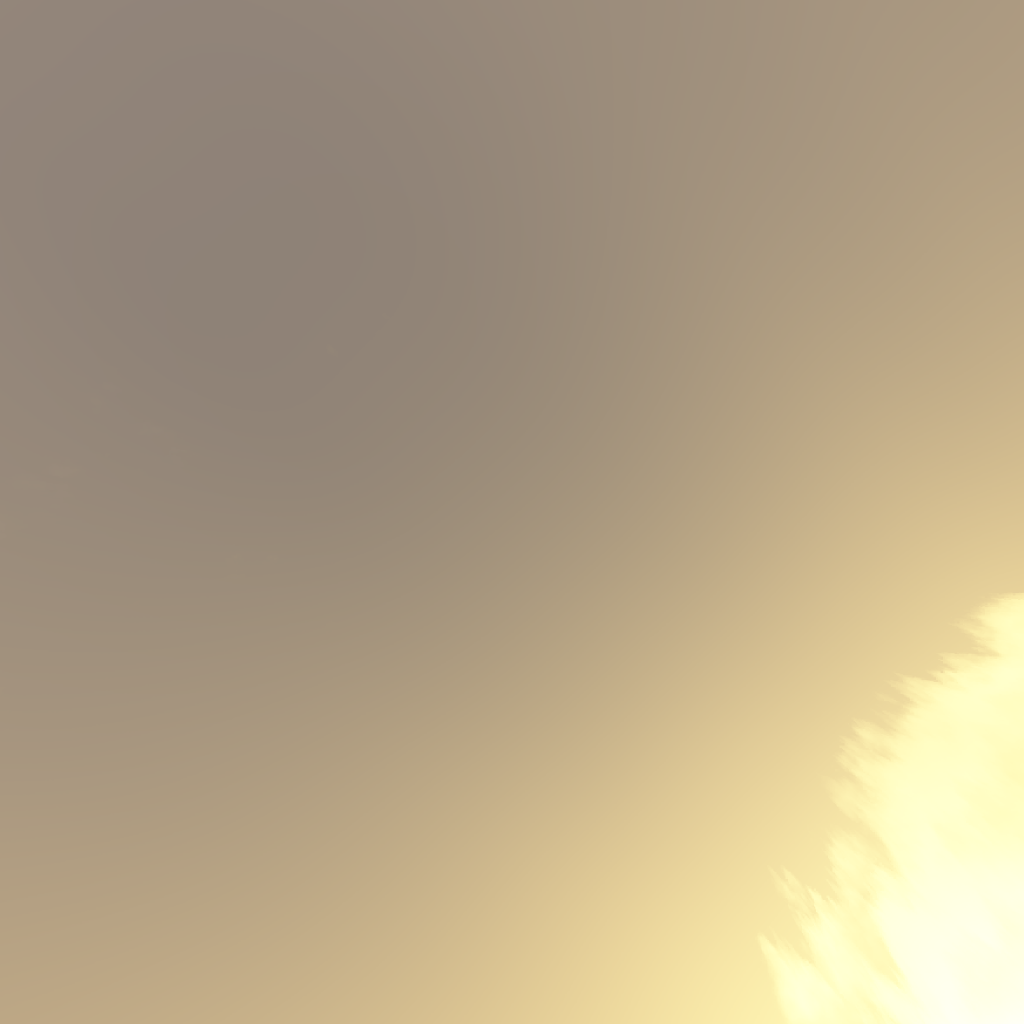
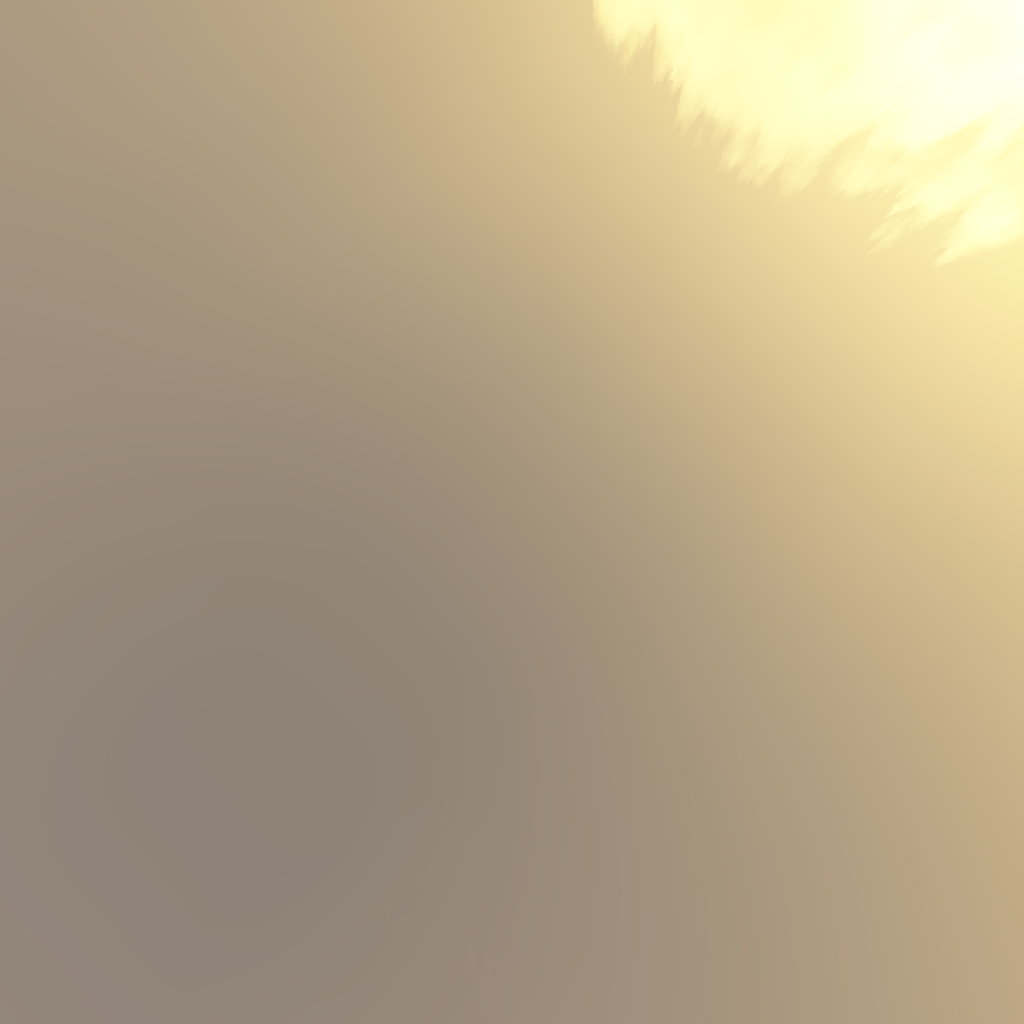
water step 4.

diff --git a/app/src/main/java/net/seabears/game/Main.java b/app/src/main/java/net/seabears/game/Main.java
@@ -142,8 +142,8 @@ public class Main {
      */
     final FrameBuffer reflection = new FrameBuffer(WATER_REFLECTION_WIDTH, WATER_REFLECTION_HEIGHT, display.getWidth(), display.getHeight(), true);
     final FrameBuffer refraction = new FrameBuffer(WATER_REFRACTION_WIDTH, WATER_REFRACTION_HEIGHT, display.getWidth(), display.getHeight(), false);
-    final WaterFrameBuffers waterFbo = new WaterFrameBuffers(reflection, refraction);
-    final WaterRenderer waterRenderer = new WaterRenderer(loader, new WaterShader(), projMatrix.toMatrix());
+    final WaterFrameBuffers waterFbs = new WaterFrameBuffers(reflection, refraction);
+    final WaterRenderer waterRenderer = new WaterRenderer(loader, new WaterShader(), projMatrix.toMatrix(), waterFbs);
 
     /*
      * models
@@ -206,9 +206,9 @@ public class Main {
     List<GuiTexture> guis = new ArrayList<>();
     guis.add(new GuiTexture(loader.loadTexture("winnie"), new Vector2f(0.7f, 0.7f),
             new Vector2f(0.1f, display.getWidth() / (float) display.getHeight() * 0.1f)));
-    guis.add(new GuiTexture(waterFbo.getReflectionTexture(), new Vector2f(-0.75f, 0.75f), new Vector2f(0.25f, 0.25f)));
-    guis.add(new GuiTexture(waterFbo.getRefractionTexture(), new Vector2f(-0.75f, 0.25f), new Vector2f(0.25f, 0.25f)));
-    guis.add(new GuiTexture(waterFbo.getRefractionDepthTexture(), new Vector2f(-0.75f, -0.25f), new Vector2f(0.25f, 0.25f)));
+    guis.add(new GuiTexture(waterFbs.getReflectionTexture(), new Vector2f(-0.75f, 0.75f), new Vector2f(0.25f, 0.25f)));
+    guis.add(new GuiTexture(waterFbs.getRefractionTexture(), new Vector2f(-0.75f, 0.25f), new Vector2f(0.25f, 0.25f)));
+    guis.add(new GuiTexture(waterFbs.getRefractionDepthTexture(), new Vector2f(-0.75f, -0.25f), new Vector2f(0.25f, 0.25f)));
 
     final MousePicker mousePicker = new MousePicker(MouseButton.LEFT, camera, projMatrix.toMatrix());
 
@@ -237,18 +237,18 @@ public class Main {
       });
 
       // water reflection
-      waterFbo.bindReflection();
+      waterFbs.bindReflection();
       final float distance = 2.0f * (camera.getPosition().y - waterTiles.get(0).getHeight());
       camera.moveForReflection(distance);
       master.render(entities, terrains, lights, skybox, camera, waterTiles.get(0).toReflectionPlane());
       camera.undoReflectionMove(distance);
 
       // water refraction
-      waterFbo.bindRefraction();
+      waterFbs.bindRefraction();
       master.render(entities, terrains, lights, skybox, camera, waterTiles.get(0).toRefractionPlane());
 
       // render scene
-      waterFbo.unbind(display.getWidth(), display.getHeight());
+      waterFbs.unbind(display.getWidth(), display.getHeight());
       master.render(entities, terrains, lights, skybox, camera, HIGH_PLANE);
       waterRenderer.render(waterTiles, camera);
       guiRenderer.render(guis);
@@ -256,7 +256,7 @@ public class Main {
       // I don't know if the stuff in here is necessary
       display.update();
     }
-    waterFbo.close();
+    waterFbs.close();
     waterRenderer.close();
     guiRenderer.close();
     return master;

diff --git a/app/src/main/java/net/seabears/game/water/WaterRenderer.java b/app/src/main/java/net/seabears/game/water/WaterRenderer.java
@@ -5,6 +5,7 @@ import java.util.List;
 import org.joml.Matrix4f;
 import org.joml.Vector3f;
 import org.lwjgl.opengl.GL11;
+import org.lwjgl.opengl.GL13;
 import org.lwjgl.opengl.GL20;
 import org.lwjgl.opengl.GL30;
 
@@ -17,14 +18,17 @@ import net.seabears.game.util.TransformationMatrix;
 public class WaterRenderer implements AutoCloseable {
   private final RawModel quad;
   private final WaterShader shader;
+  private final WaterFrameBuffers fbs;
 
-  public WaterRenderer(Loader loader, WaterShader shader, Matrix4f projectionMatrix) {
+  public WaterRenderer(Loader loader, WaterShader shader, Matrix4f projectionMatrix, WaterFrameBuffers fbs) {
     // Just x and z vertex positions here: y is set to 0 in vertex shader
     float[] vertices = {-1, -1, -1, 1, 1, -1, 1, -1, -1, 1, 1, 1};
     this.quad = loader.loadToVao(vertices, 2);
+    this.fbs = fbs;
     this.shader = shader;
     this.shader.init();
     this.shader.start();
+    this.shader.loadTextures();
     this.shader.loadProjectionMatrix(projectionMatrix);
     this.shader.stop();
   }
@@ -47,6 +51,10 @@ public class WaterRenderer implements AutoCloseable {
     shader.loadViewMatrix(camera);
     GL30.glBindVertexArray(quad.getVaoId());
     GL20.glEnableVertexAttribArray(StaticShader.ATTR_POSITION);
+    GL13.glActiveTexture(GL13.GL_TEXTURE0);
+    GL11.glBindTexture(GL11.GL_TEXTURE_2D, fbs.getReflectionTexture());
+    GL13.glActiveTexture(GL13.GL_TEXTURE1);
+    GL11.glBindTexture(GL11.GL_TEXTURE_2D, fbs.getRefractionTexture());
   }
 
   private void unbind() {

diff --git a/app/src/main/java/net/seabears/game/water/WaterShader.java b/app/src/main/java/net/seabears/game/water/WaterShader.java
@@ -13,6 +13,8 @@ public class WaterShader extends ShaderProgram {
   private int locationModelMatrix;
   private int locationViewMatrix;
   private int locationProjectionMatrix;
+  private int locationReflectionTexture;
+  private int locationRefractionTexture;
 
   public WaterShader() throws IOException {
     super(SHADER_ROOT + "water/");
@@ -28,6 +30,14 @@ public class WaterShader extends ShaderProgram {
     locationModelMatrix = getUniformLocation("modelMatrix");
     locationProjectionMatrix = getUniformLocation("projectionMatrix");
     locationViewMatrix = getUniformLocation("viewMatrix");
+    locationReflectionTexture = getUniformLocation("reflectionTexture");
+    locationRefractionTexture = getUniformLocation("refractionTexture");
+  }
+
+  public void loadTextures() {
+    // these refer to texture units
+    super.loadInt(locationReflectionTexture, 0);
+    super.loadInt(locationRefractionTexture, 1);
   }
 
   public void loadModelMatrix(Matrix4f modelMatrix) {
